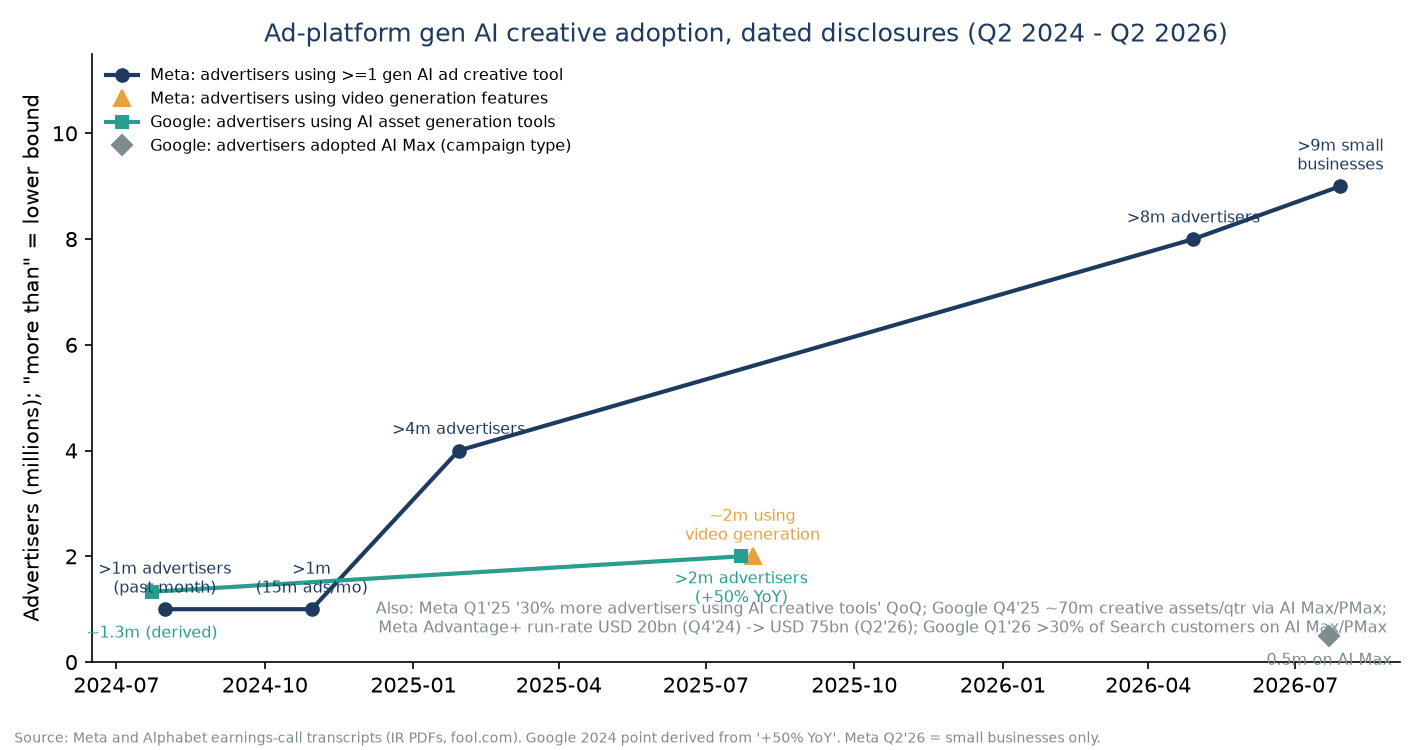
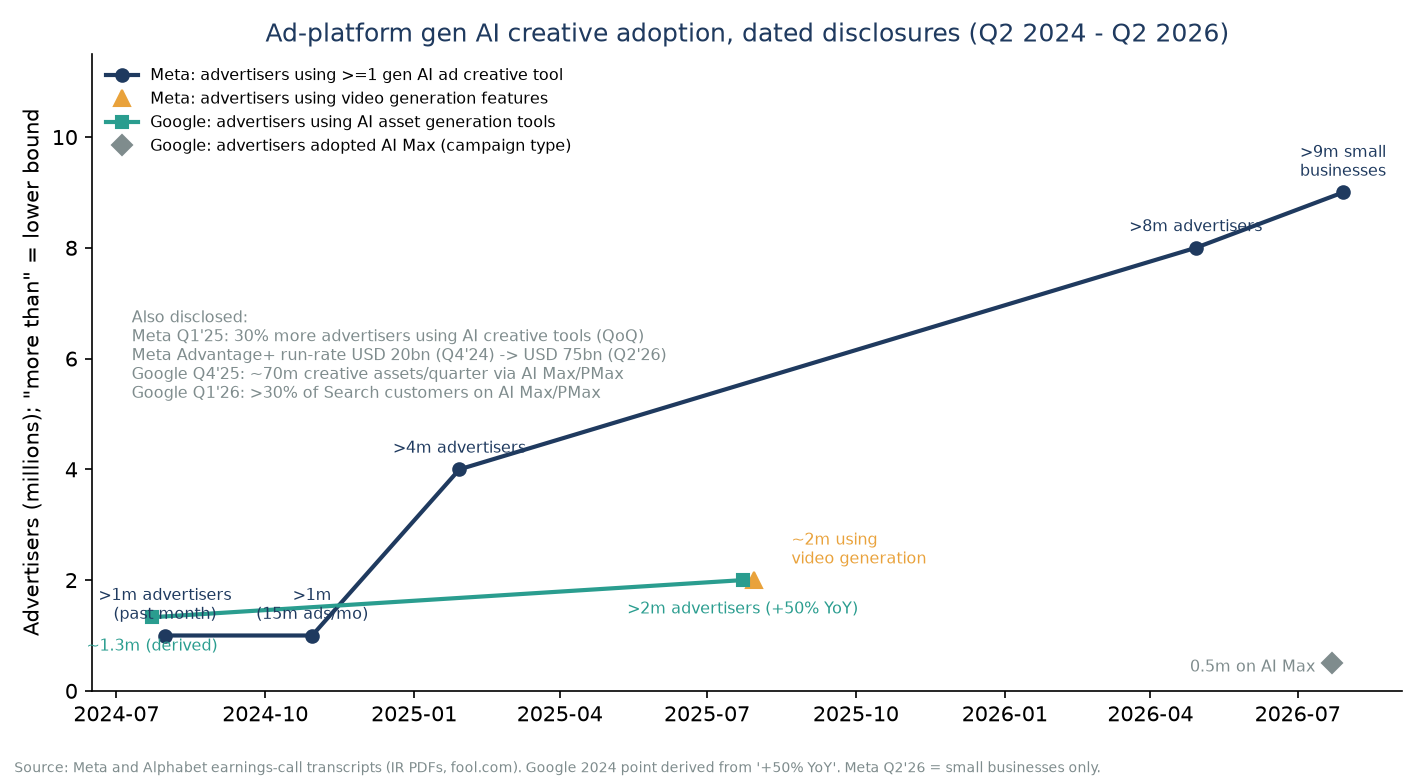
Add C2 content-demand workstream: Adobe content-stack metrics, Meta/Google gen-AI creative adoption, agency statements, labor check, EPS
Claude-Session: https://claude.ai/code/session_0135sjqnFfhmo5TP2aRhoENx

diff --git a/research/tri/c2_content/findings.md b/research/tri/c2_content/findings.md
@@ -1,12 +1,12 @@
-# C2 findings: AI content demand x Adobe content stack (final, 2026-10-02)
+# C2 findings: AI content demand x Adobe content stack (2026-10-02)
 
 **Key numbers ("more than" = lower bound).**
-Company: AI-first ending ARR >$125m (Q1 FY25) -> >$250m (Q3 FY25) -> >$500m, ~3x YoY (Q2 FY26) -> >$650m, >150% YoY (Q3 FY26); CXO AI-first ARR 4x YoY (Q2 FY26); GenStudio ARR >$1bn with floors >25% (FY25) -> >30% (Q1 FY26) -> >25% (Q2) -> >20% (Q3); AEP & Apps ~50% -> >40% -> >30% -> >20% over the same span; Firefly Services ARR 4x YoY (Q2 FY25), >100 new deals (Q4 FY25), custom models >1,400 -> >2,500, Firefly Enterprise new customers +50% YoY (Q1 FY26); credits 3x QoQ (Q4 FY25), video generative actions >8x YoY (Q1 FY26). "Asset generations 4x": not found in any transcript or release. Digital Experience subscription revenue grew 11-13% every quarter FY24-FY25 ($5.41bn FY25); from Q1 FY26 Adobe reports one segment and DX is no longer disclosed (proxy CMP subscription +12/13/13%, includes Creative Cloud and Semrush).
-Peer (ad platforms): Meta advertisers using >=1 gen AI creative tool >1m (Jul 2024) -> >4m (Jan 2025) -> >8m (Apr 2026); >9m small businesses (Jul 2026); Google >2m advertisers on AI asset generation, +50% YoY (Jul 2025), ~70m assets generated in Q4 2025 alone, >30% of Search customers on AI Max/PMax (Apr 2026).
-Peer/industry (agencies): WPP internal data "2.5x asset output, 50-70% less time, no added headcount" (Dec 2025, via Google-hosted article); WPP headcount -8.7% (2025); Publicis production "growing double digits" (Oct 2025) but its creative practice grew only low-single-digit in Q1-Q2 2026; Omnicom discloses no volumes.
-Primary/alt (labor): BLS OEWS re-verified (graphic designers 214,260 -> 197,830, May 2024-25); Adobe DM revenue per US creative worker index 241 (CAGR 15.8%).
-EPS: $100m ARR = $0.095; 8/12/16% content-stack growth on $5.41bn = +$0.41/$0.61/$0.82.
+Company: AI-first ARR >$125m (Q1 FY25) -> >$250m (Q3 FY25) -> >$500m (Q2 FY26) -> >$650m, >150% YoY (Q3 FY26); CXO AI-first ARR 4x (Q2 FY26); GenStudio ARR >$1bn, floors >25% (FY25) -> >30% (Q1 FY26) -> >25% -> >20% (Q3 FY26); AEP & Apps ~50% -> >40% -> >30% -> >20%; Firefly Enterprise new customers +50% (Q1 FY26); video generative actions >8x (Q1 FY26). "Asset generations 4x": not found. Digital Experience subscription revenue grew 11-13% every quarter FY24-FY25 ($5.41bn FY25); from Q1 FY26 Adobe reports one segment, so DX is undisclosed (proxy CMP subscription +12-13%).
+Peer (ad platforms): Meta advertisers using gen AI creative tools >1m (Jul 2024) -> >4m (Jan 2025) -> >8m (Apr 2026), >9m small businesses (Jul 2026); Google >2m advertisers on AI asset generation, +50% YoY (Jul 2025), ~70m assets generated in Q4 2025, >30% of Search customers on AI Max/PMax (Apr 2026).
+Agencies: WPP internal data: 2.5x asset output, 50-70% less time, flat headcount (Dec 2025); WPP headcount -8.7% (2025); Publicis production "growing double digits" (Oct 2025) yet its creative practice grew low-single-digit in Q1-Q2 2026; Omnicom discloses no volumes.
+Labor: BLS OEWS re-verified (graphic designers 214,260 -> 197,830); revenue per US creative worker index 241 (CAGR 15.8%).
+EPS: $100m ARR = $0.095; 8/12/16% growth on $5.41bn = +$0.41/$0.61/$0.82.
 
-**Verdict by source type.** company SUPPORTS (strong, but all floors); peer ad-platforms SUPPORTS the volume premise (independent, dated, monotonic); agencies NEUTRAL-to-SUPPORTS on volume, WEAKENS on agency-revenue capture (creative practices growing 1-5%); labor SUPPORTS decoupling; alt (Ad Library) NOT COLLECTED (manual protocol delivered).
+**Verdict.** company SUPPORTS (all floors); ad-platforms SUPPORTS volume; agencies NEUTRAL on volume, WEAKENS on revenue capture; labor SUPPORTS decoupling; alt (Ad Library) NOT COLLECTED (protocol delivered).
 
-**Falsifier status: NOT TRIGGERED, with two caveats.** (1) Ad-platform and agency volume indicators are rising, not flat. (2) DX subscription growth never fell below 11% while reported, but the series stopped in FY26; the disclosed GenStudio/AEP floors stepped down three quarters running (30 -> 25 -> 20%), which is consistent with deceleration even though floors do not prove it. Confidence: medium-high on volume, medium on Adobe's capture.
+**Falsifier: NOT TRIGGERED, two caveats.** DX growth never fell below 11% while reported, but the series stopped in FY26, and GenStudio/AEP floors stepped down three quarters running (30 -> 25 -> 20%), consistent with deceleration though unproven.
